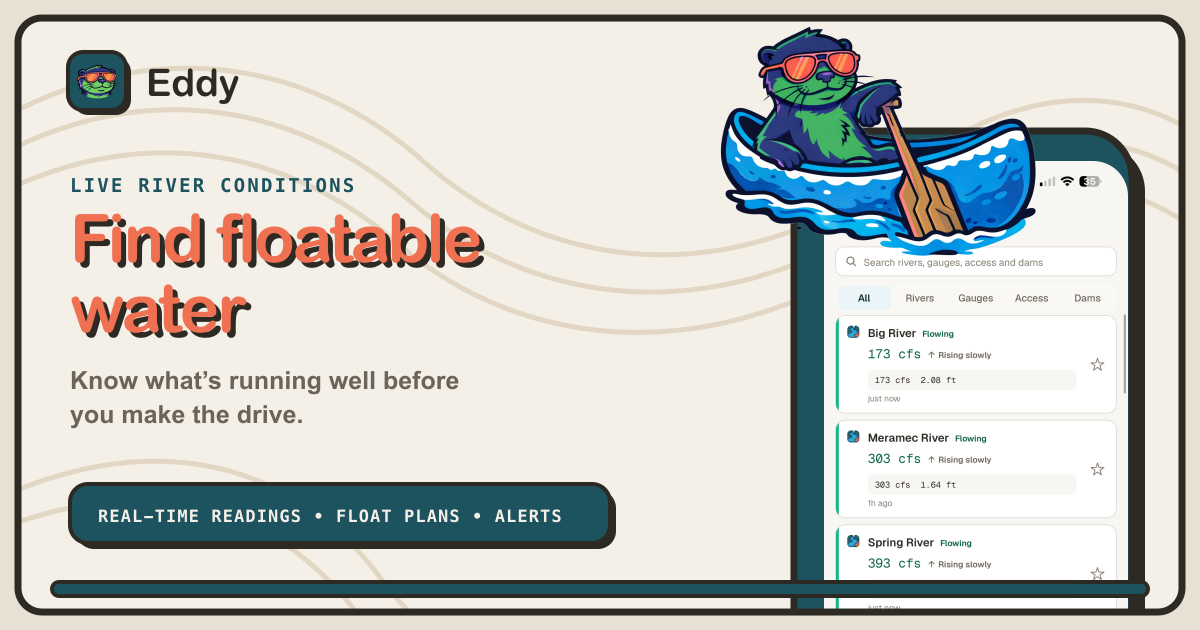
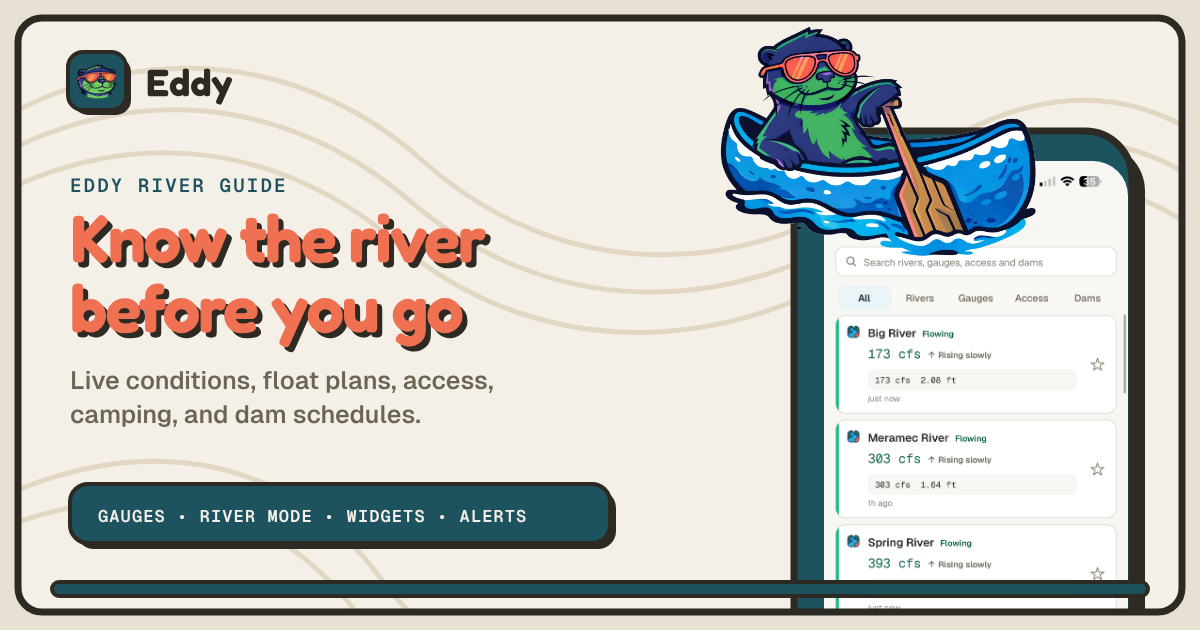
Refresh /app with the 1.6 App Store screenshots and new headline
The landing page still showed three screenshots from the earlier six-image
set and led with "Find floatable water." It now uses the eight images live
on the 1.6.0 listing (as WebP, ~2 MB total), leads with "Know the river
before you go.", and adds a scrollable gallery of the full set.

Feature cards follow the new screenshots: the daily read (stated as
Premium, with everything else free), conditions and dam schedules, River
Mode, access and camping, widgets and alerts, and working without signal.
The page title, description, and the 1200x630 share card match.

Claude-Session: https://claude.ai/code/session_01HZotX99ZR8CjELdhroaRMw

diff --git a/missouri-float-planner/src/app/app/page.tsx b/missouri-float-planner/src/app/app/page.tsx
@@ -1,7 +1,7 @@
 import type { Metadata } from 'next';
 import Image from 'next/image';
 import Link from 'next/link';
-import { ArrowRight, BellRing, MapPin, Signal, Waves } from 'lucide-react';
+import { ArrowRight, BellRing, FileText, MapPin, Signal, Tent, Waves } from 'lucide-react';
 import SiteFooter from '@/components/ui/SiteFooter';
 import styles from './page.module.css';
 import AppLink from '@/components/AppLink';
@@ -13,49 +13,81 @@ import AppQrPrompt from '@/components/AppQrPrompt';
 
 type Props = { searchParams: Promise<{ ct?: string | string[]; dam?: string | string[] }> };
 
+const pageTitle = 'Eddy River Guide for iPhone — Know the River Before You Go';
+const pageDescription =
+  'Live river conditions, gauge trends, float plans, river access, campground availability, dam schedules, widgets, and alerts for Ozarks float rivers.';
+
 const pageMetadata: Metadata = {
-  title: 'Eddy for iPhone — Find Floatable Water',
-  description:
-    'Get live river conditions, float plans, access-point details, gauge trends, and alerts with Eddy for iPhone.',
+  title: pageTitle,
+  description: pageDescription,
   alternates: { canonical: '/app' },
   openGraph: {
     type: 'website',
     url: '/app',
     siteName: 'Eddy',
-    title: 'Eddy for iPhone — Find Floatable Water',
-    description: 'Know what’s running well before you make the drive.',
+    title: pageTitle,
+    description: pageDescription,
     images: [
       {
         url: '/og/eddy-app-store.png',
         width: 1200,
         height: 630,
-        alt: 'Eddy for iPhone — find floatable water with live river conditions',
+        alt: 'Eddy River Guide for iPhone — know the river before you go',
       },
     ],
   },
   twitter: {
     card: 'summary_large_image',
-    title: 'Eddy for iPhone — Find Floatable Water',
-    description: 'Know what’s running well before you make the drive.',
+    title: pageTitle,
+    description: pageDescription,
     images: ['/og/eddy-app-store.png'],
   },
 };
 
+// The App Store screenshot set, in the order the listing shows it. Source of
+// truth is App Store Connect; these are its 1206 × 2622 exports as WebP.
+const screenshots = [
+  { src: '/app-store/01-daily-river-report.webp', alt: 'Daily river report: Eddy’s Read and today’s river conditions' },
+  { src: '/app-store/02-plan-put-in-to-take-out.webp', alt: 'Plan put-in to take-out: a Current River float from Cedar Grove to Akers Ferry' },
+  { src: '/app-store/03-estimate-your-day.webp', alt: 'Estimate your day on the river: follow your route in River Mode' },
+  { src: '/app-store/04-camp-along-the-way.webp', alt: 'Camp along the way: campground availability on saved rivers' },
+  { src: '/app-store/05-find-your-river-access.webp', alt: 'Find your river access: put-ins, take-outs, and places to explore on the map' },
+  { src: '/app-store/06-read-the-rivers-trend.webp', alt: 'Read the river’s trend: gauge level and recent history' },
+  { src: '/app-store/07-know-the-dam-schedule.webp', alt: 'Know the dam schedule: Bull Shoals generation, releases, and tailwater' },
+  { src: '/app-store/08-your-rivers-at-a-glance.webp', alt: 'Your rivers at a glance: Home Screen widgets and river alerts' },
+] as const;
+
+const SCREENSHOT_WIDTH = 1206;
+const SCREENSHOT_HEIGHT = 2622;
+
 const features = [
+  // Eddy's Read is the one thing a subscription buys (premium-copy.test.ts);
+  // it leads the screenshot set, so the page says plainly that it is Premium
+  // and that everything else here is free.
+  {
+    icon: FileText,
+    title: 'A daily read on every river',
+    copy: 'With Eddy Premium, a written report every morning on what the water is doing and what the weather will do to it. Everything else here is free.',
+  },
   {
     icon: Waves,
     title: 'Conditions you can use',
-    copy: 'Live readings become a clear Eddy rating, so you can decide whether the river is worth the drive.',
+    copy: 'Live gauge readings become a clear Eddy rating, with recent history and dam generation schedules alongside.',
   },
   {
     icon: MapPin,
     title: 'Plan the whole float',
-    copy: 'Compare put-ins, take-outs, mileage, estimated float time, access details, and shuttle routes.',
+    copy: 'Pick a put-in and take-out for mileage, estimated float time, and the shuttle, then follow the route in River Mode.',
+  },
+  {
+    icon: Tent,
+    title: 'Access and camping',
+    copy: 'Put-ins, take-outs, and places to explore, plus which campgrounds along your river have openings.',
   },
   {
     icon: BellRing,
-    title: 'Let the river tell you',
-    copy: 'Create alerts for the conditions you care about and keep your favorite water one tap away.',
+    title: 'Your rivers, at a glance',
+    copy: 'Home Screen widgets keep your favorite water in view, and alerts tell you when it reaches the conditions you want.',
   },
   // The landing page had no answer to "does this work where I am going", which
   // is the question an Ozark float raises before any other. It is also the one
@@ -83,11 +115,11 @@ export default async function AppLandingPage({ searchParams }: Props) {
         <div className={styles.contours} aria-hidden="true" />
         <div className={styles.heroInner}>
           <div className={styles.copy}>
-            {!dam && <p className={styles.eyebrow}>EDDY FOR IPHONE</p>}
-            <h1 className={dam ? styles.damHeading : undefined}>{dam ? damWidgetHeadline(dam.name) : 'Find floatable water.'}</h1>
+            {!dam && <p className={styles.eyebrow}>EDDY RIVER GUIDE FOR IPHONE</p>}
+            <h1 className={dam ? styles.damHeading : undefined}>{dam ? damWidgetHeadline(dam.name) : 'Know the river before you go.'}</h1>
             <p className={styles.lede}>
               {dam ? 'Today’s generation schedule, at a glance.' :
-                'Live river conditions, complete float plans, access-point details, gauge trends, and alerts—built for the water you actually paddle.'}
+                'Live conditions, gauge trends, float plans from put-in to take-out, river access, camping, and dam schedules—built for the Ozarks water you actually paddle.'}
             </p>
 
             <div className={styles.actions}>
@@ -147,26 +179,26 @@ export default async function AppLandingPage({ searchParams }: Props) {
           </figure> : <div className={styles.preview} aria-label="Eddy iPhone app preview">
             <Image
               className={`${styles.phoneShot} ${styles.phoneShotBackLeft}`}
-              src="/app-store/03-plan-put-in-to-take-out.png"
-              alt="Plan a float from put-in to take-out in Eddy"
-              width={1320}
-              height={2868}
+              src={screenshots[1].src}
+              alt={screenshots[1].alt}
+              width={SCREENSHOT_WIDTH}
+              height={SCREENSHOT_HEIGHT}
               sizes="(min-width: 900px) 260px, 34vw"
             />
             <Image
               className={`${styles.phoneShot} ${styles.phoneShotBackRight}`}
-              src="/app-store/06-watch-the-water-for-you.png"
-              alt="Configure a river-condition alert in Eddy"
-              width={1320}
-              height={2868}
+              src={screenshots[7].src}
+              alt={screenshots[7].alt}
+              width={SCREENSHOT_WIDTH}
+              height={SCREENSHOT_HEIGHT}
               sizes="(min-width: 900px) 260px, 34vw"
             />
             <Image
               className={`${styles.phoneShot} ${styles.phoneShotFront}`}
-              src="/app-store/01-find-floatable-water.png"
-              alt="Search live river conditions in Eddy"
-              width={1320}
-              height={2868}
+              src={screenshots[0].src}
+              alt={screenshots[0].alt}
+              width={SCREENSHOT_WIDTH}
+              height={SCREENSHOT_HEIGHT}
               sizes="(min-width: 900px) 320px, 54vw"
               priority
             />
@@ -174,9 +206,31 @@ export default async function AppLandingPage({ searchParams }: Props) {
         </div>
       </section>
 
+      <section className={styles.gallery} aria-labelledby="app-gallery-title">
+        <div className={styles.sectionHeading}>
+          <p className={styles.eyebrow}>INSIDE THE APP</p>
+          <h2 id="app-gallery-title">Everything for the float, in one place.</h2>
+        </div>
+
+        {/* Focusable so keyboard users can scroll the strip. */}
+        <ul className={styles.galleryStrip} tabIndex={0} aria-label="Eddy app screenshots">
+          {screenshots.map(({ src, alt }) => (
+            <li className={styles.galleryItem} key={src}>
+              <Image
+                src={src}
+                alt={alt}
+                width={SCREENSHOT_WIDTH}
+                height={SCREENSHOT_HEIGHT}
+                sizes="(min-width: 620px) 250px, 62vw"
+              />
+            </li>
+          ))}
+        </ul>
+      </section>
+
       <section className={styles.features} aria-labelledby="app-features-title">
         <div className={styles.sectionHeading}>
-          <p className={styles.eyebrow}>KNOW BEFORE YOU GO</p>
+          <p className={styles.eyebrow}>WHAT EDDY DOES</p>
           <h2 id="app-features-title">One river guide from couch to take-out.</h2>
         </div>
 

diff --git a/missouri-float-planner/src/app/app/page.module.css b/missouri-float-planner/src/app/app/page.module.css
@@ -61,7 +61,7 @@
   max-width: 620px;
   margin: 0;
   color: #f07052;
-  font-size: clamp(4rem, 7.5vw, 7rem);
+  font-size: clamp(3.6rem, 6.4vw, 6rem);
   line-height: 0.91;
   text-shadow: 5px 5px 0 #2d2a24;
 }
@@ -279,6 +279,45 @@
   transform: rotate(7deg) translateY(22px);
 }
 
+.gallery {
+  width: min(1180px, calc(100% - 40px));
+  margin: 0 auto;
+  padding: 88px 0 0;
+}
+
+.galleryStrip {
+  margin: 40px 0 0;
+  padding: 6px 4px 26px;
+  list-style: none;
+  display: grid;
+  grid-auto-flow: column;
+  grid-auto-columns: 250px;
+  gap: 24px;
+  overflow-x: auto;
+  overscroll-behavior-x: contain;
+  scroll-snap-type: x mandatory;
+  scrollbar-color: #c2baac transparent;
+}
+
+.galleryStrip:focus-visible {
+  outline: 3px solid #1d525f;
+  outline-offset: 4px;
+  border-radius: 12px;
+}
+
+.galleryItem {
+  scroll-snap-align: start;
+}
+
+.galleryItem img {
+  display: block;
+  width: 100%;
+  height: auto;
+  border: 3px solid #2d2a24;
+  border-radius: 20px;
+  box-shadow: 7px 8px 0 #c2baac;
+}
+
 .features {
   width: min(1180px, calc(100% - 40px));
   margin: 0 auto;
@@ -421,13 +460,16 @@
 
 @media (max-width: 620px) {
   .heroInner,
+  .gallery,
   .features,
   .bottomCta {
     width: min(100% - 28px, 1180px);
   }
 
   .heroInner { padding-top: 50px; }
-  .copy h1 { font-size: clamp(3.7rem, 19vw, 5.2rem); }
+  .copy h1 { font-size: clamp(3.1rem, 15vw, 4.4rem); }
+  .gallery { padding-top: 66px; }
+  .galleryStrip { grid-auto-columns: 62vw; margin-top: 30px; }
   .lede { font-size: 1.02rem; }
 
   .actions {

diff --git a/marketing/app-store/SHOT_PLAN.md b/marketing/app-store/SHOT_PLAN.md
@@ -1,5 +1,13 @@
 # Eddy iOS App Store screenshot set
 
+> **Superseded on the live listing.** Version 1.6.0 (October 31, 2026) ships an
+> eight-image set made outside this repo: Daily River report, Plan put-in to
+> take-out, Estimate your day, Camp along the way, Find your river access, Read
+> the river's trend, Know the dam schedule, and Your rivers at a glance. Their
+> 1206 × 2622 App Store exports are what `/app` shows, as WebP in
+> `missouri-float-planner/public/app-store/`. The plan below records the earlier
+> six-image set in `exports/iphone-6.9-native/`.
+
 Target: iPhone 6.9-inch portrait, 1320 × 2868 px, PNG, no alpha.
 
 The approved Field Notebook frame is the common visual system for every image:
